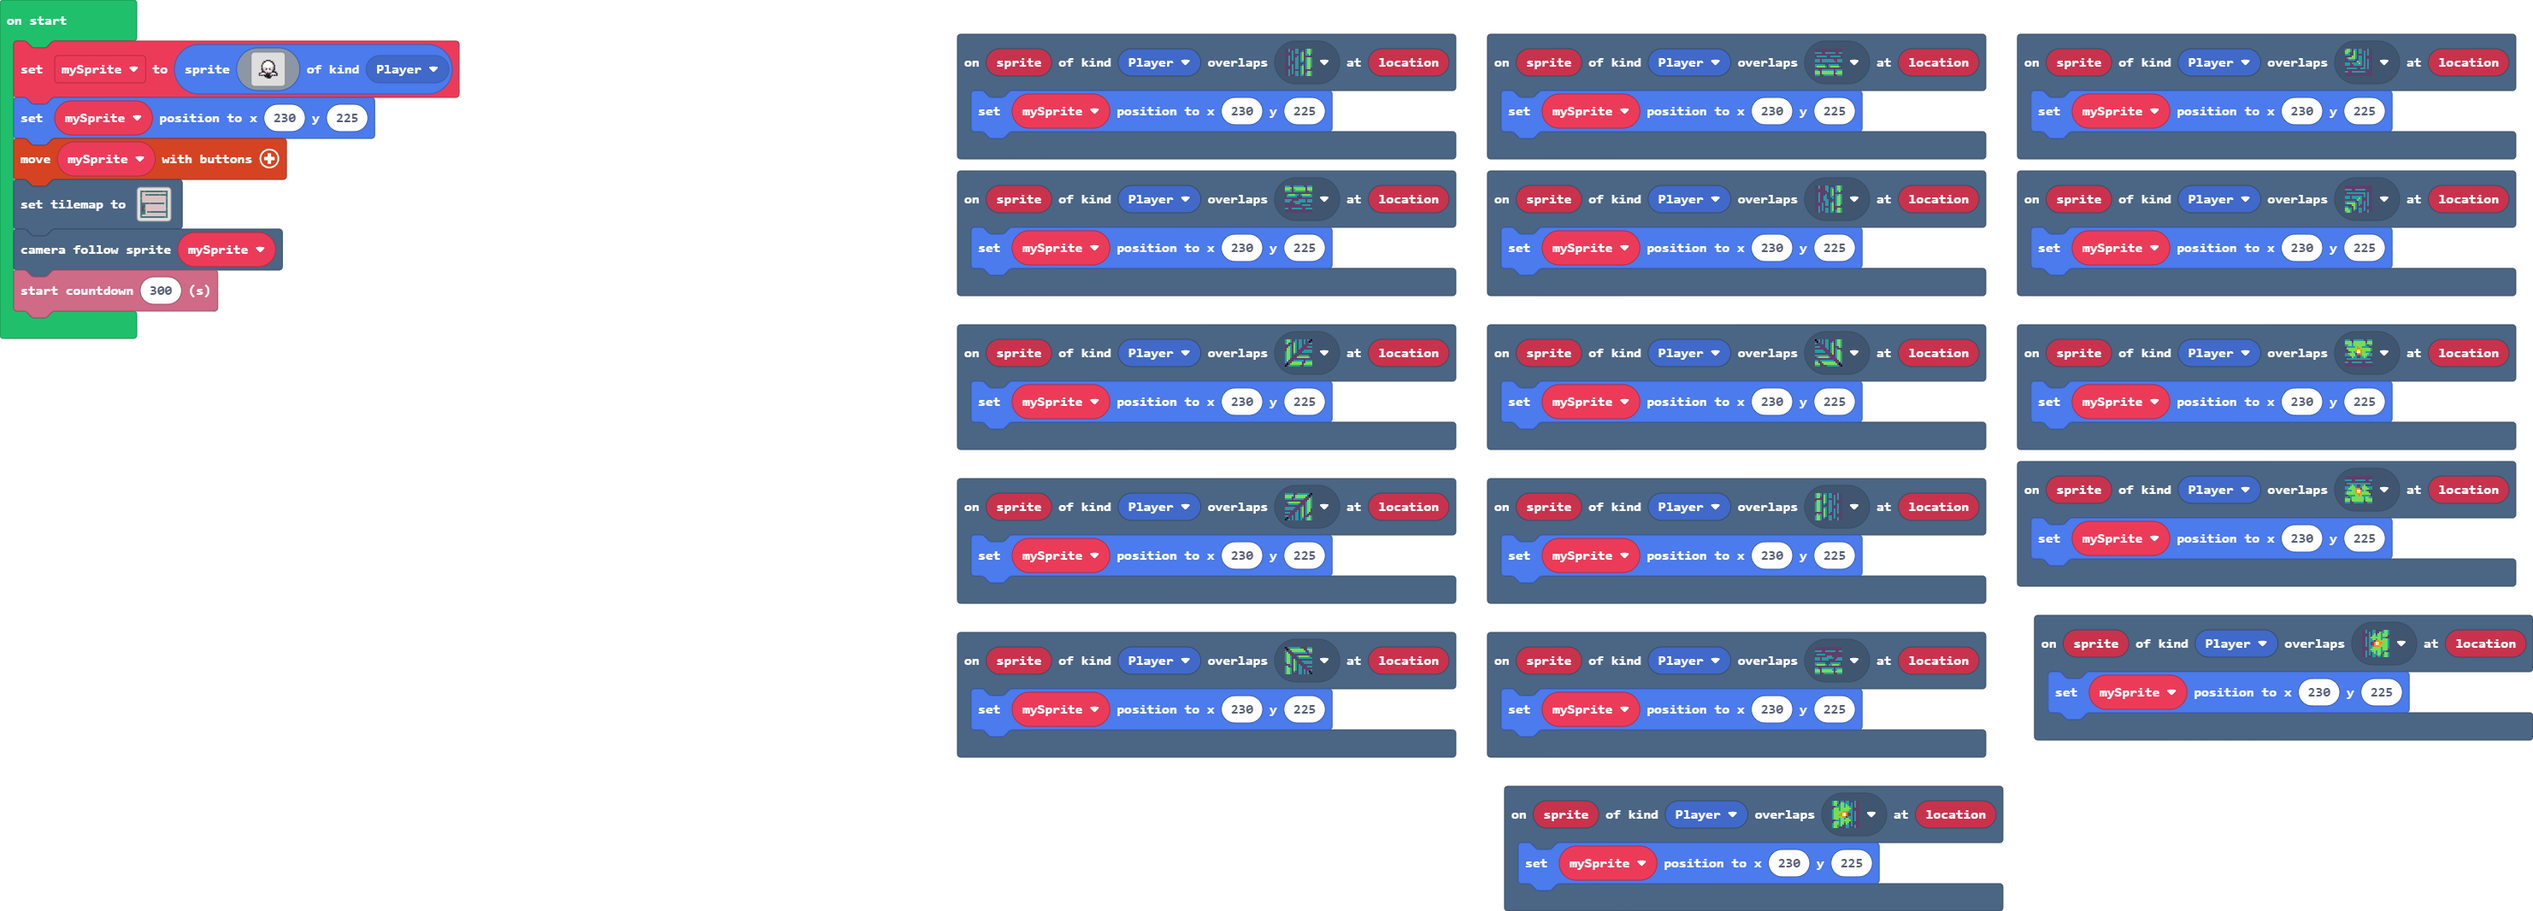
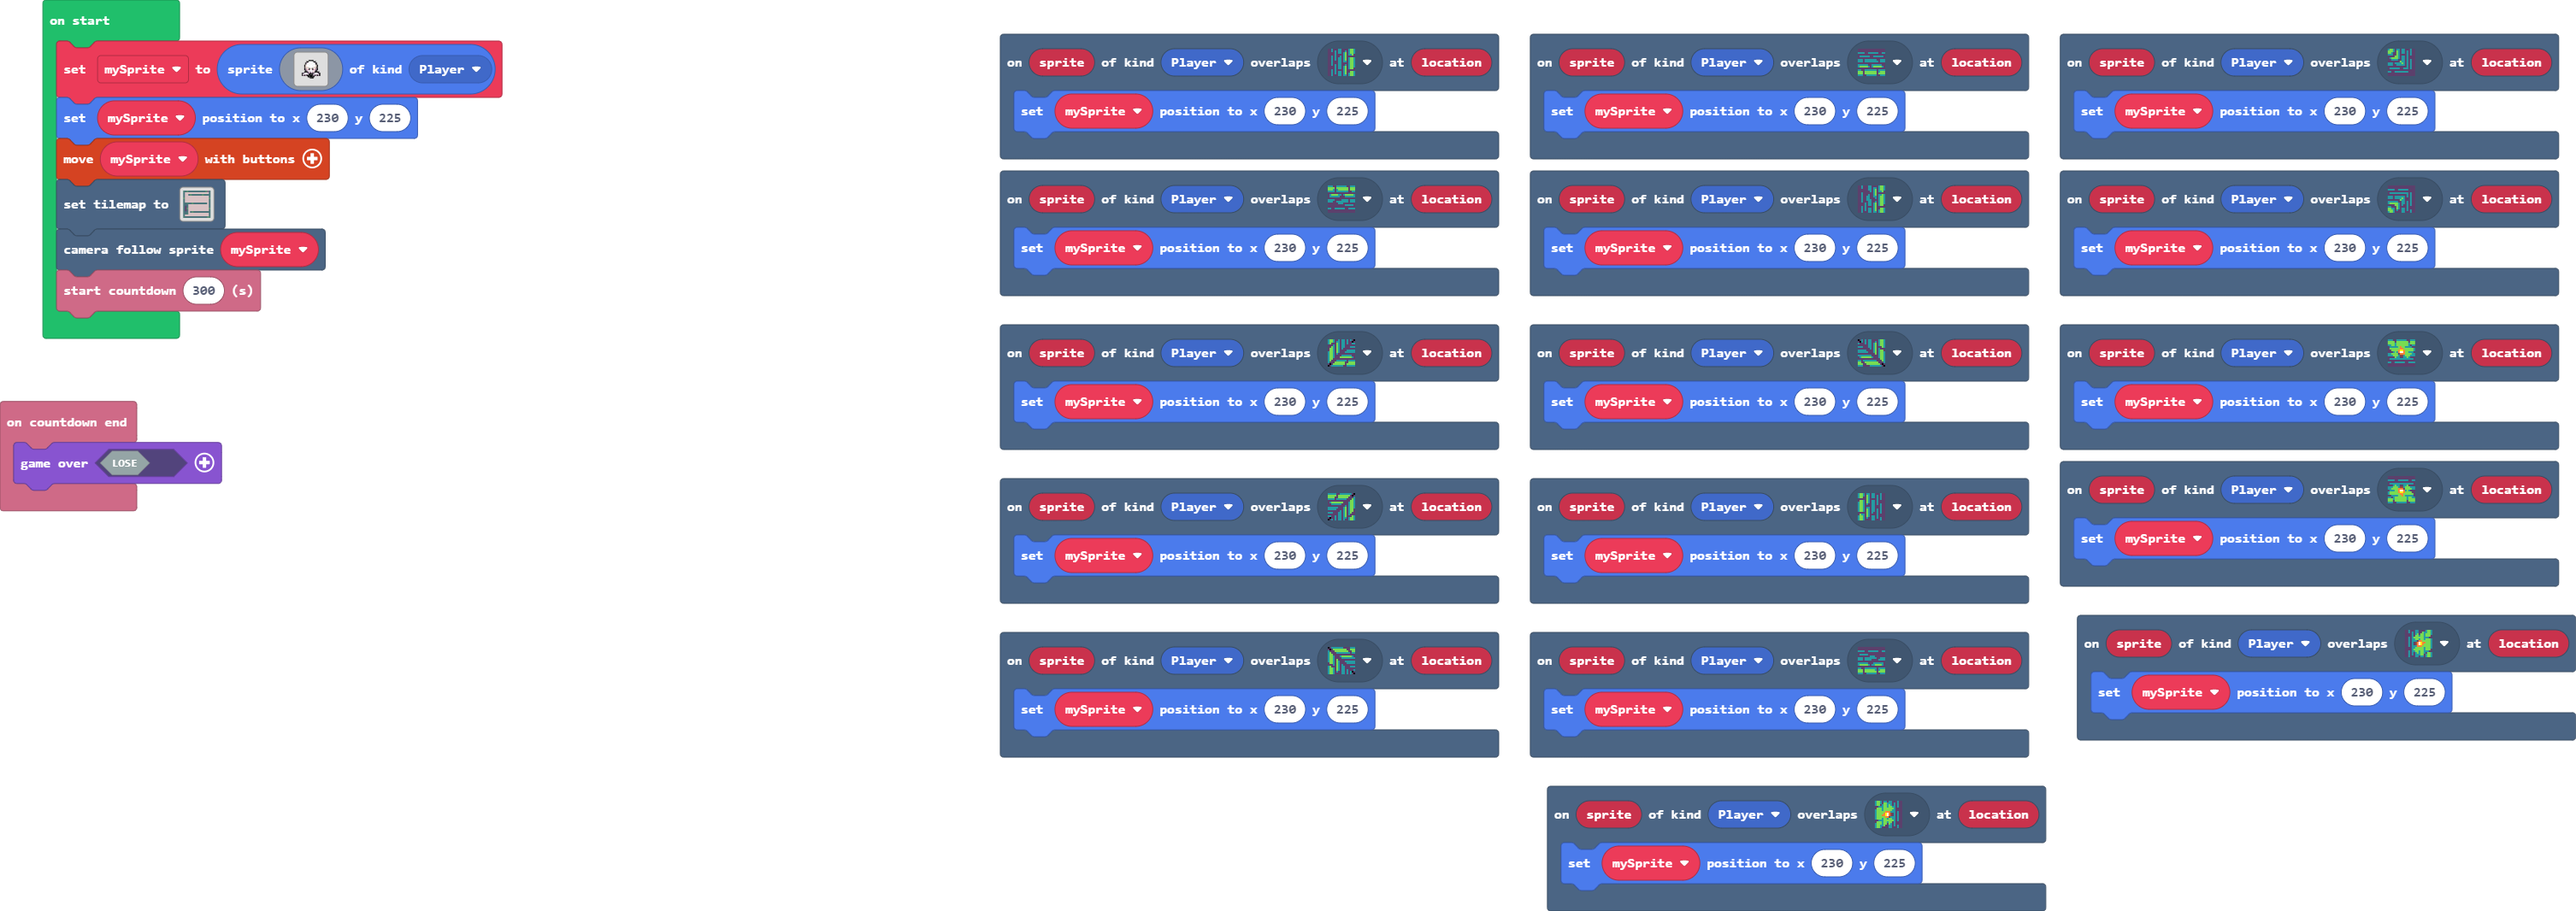
Update main.blocks, main.ts

diff --git a/main.ts b/main.ts
@@ -22,6 +22,9 @@ scene.onOverlapTile(SpriteKind.Player, sprites.dungeon.greenOuterNorthEast, func
 scene.onOverlapTile(SpriteKind.Player, sprites.dungeon.greenOuterSouth2, function (sprite, location) {
     mySprite.setPosition(230, 225)
 })
+info.onCountdownEnd(function () {
+    game.over(false)
+})
 scene.onOverlapTile(SpriteKind.Player, sprites.dungeon.greenOuterNorth2, function (sprite, location) {
     mySprite.setPosition(230, 225)
 })
